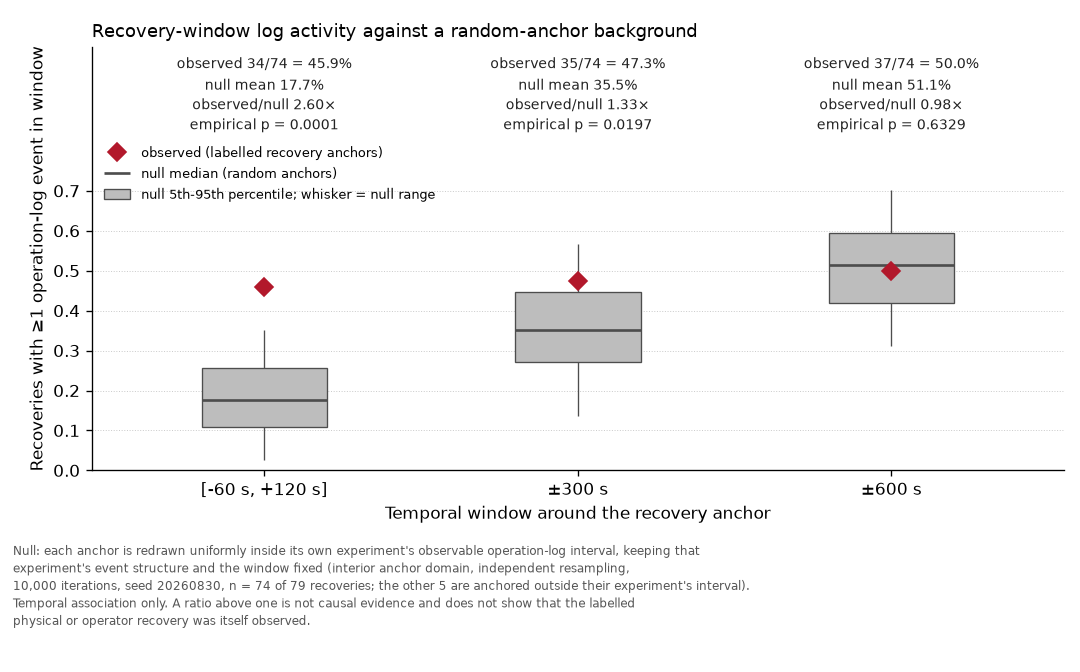
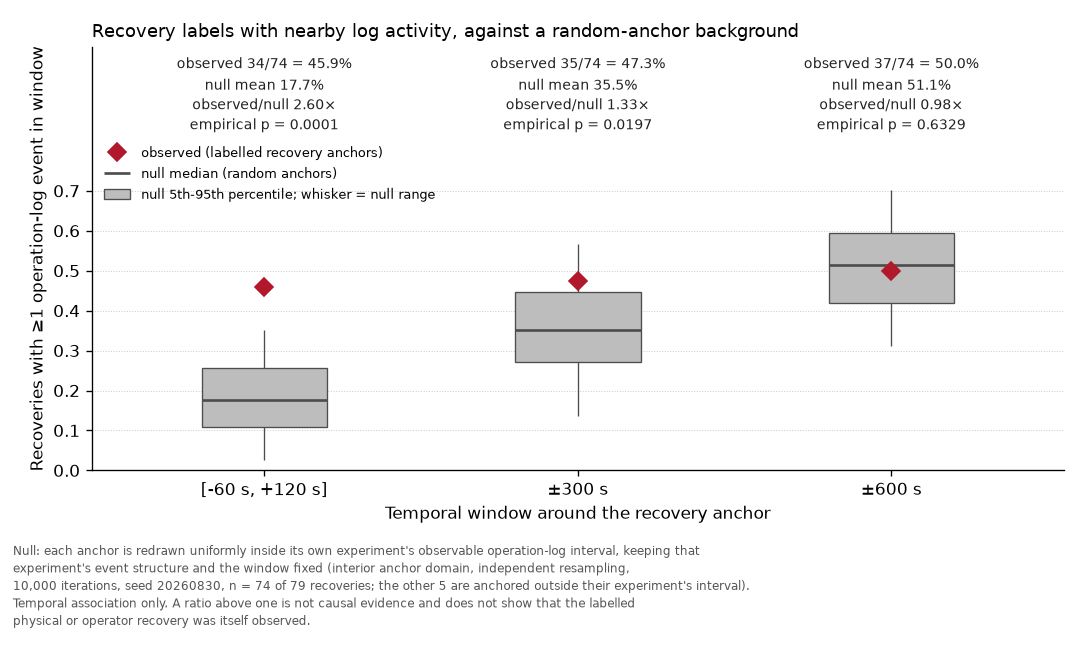
docs: name the quantity the figure plots in its title
The title said "Recovery-window log activity", which reads as a volume of log
lines and invites the ratio to be quoted as "2.6x more log activity". The plotted
quantity is an incidence: the share of recovery labels that have at least one
parseable operation-log row in the window, against the same share under random
anchors. The y-axis already said so; the title now agrees with it.

Figure regenerated deterministically; no analysis, variant, or number changes.

Changed region(s): [[0.1528, 0.0312, 0.7333, 0.0625]]

diff --git a/src/lab_log_audit/figures.py b/src/lab_log_audit/figures.py
@@ -108,7 +108,7 @@ def render_background_figure(path: Path, summaries: Sequence[NullSummary]) -> Pa
     axes.set_ylabel("Recoveries with ≥1 operation-log event in window")
     axes.set_xlabel("Temporal window around the recovery anchor")
     axes.set_title(
-        "Recovery-window log activity against a random-anchor background",
+        "Recovery labels with nearby log activity, against a random-anchor background",
         fontsize=11,
         loc="left",
     )
